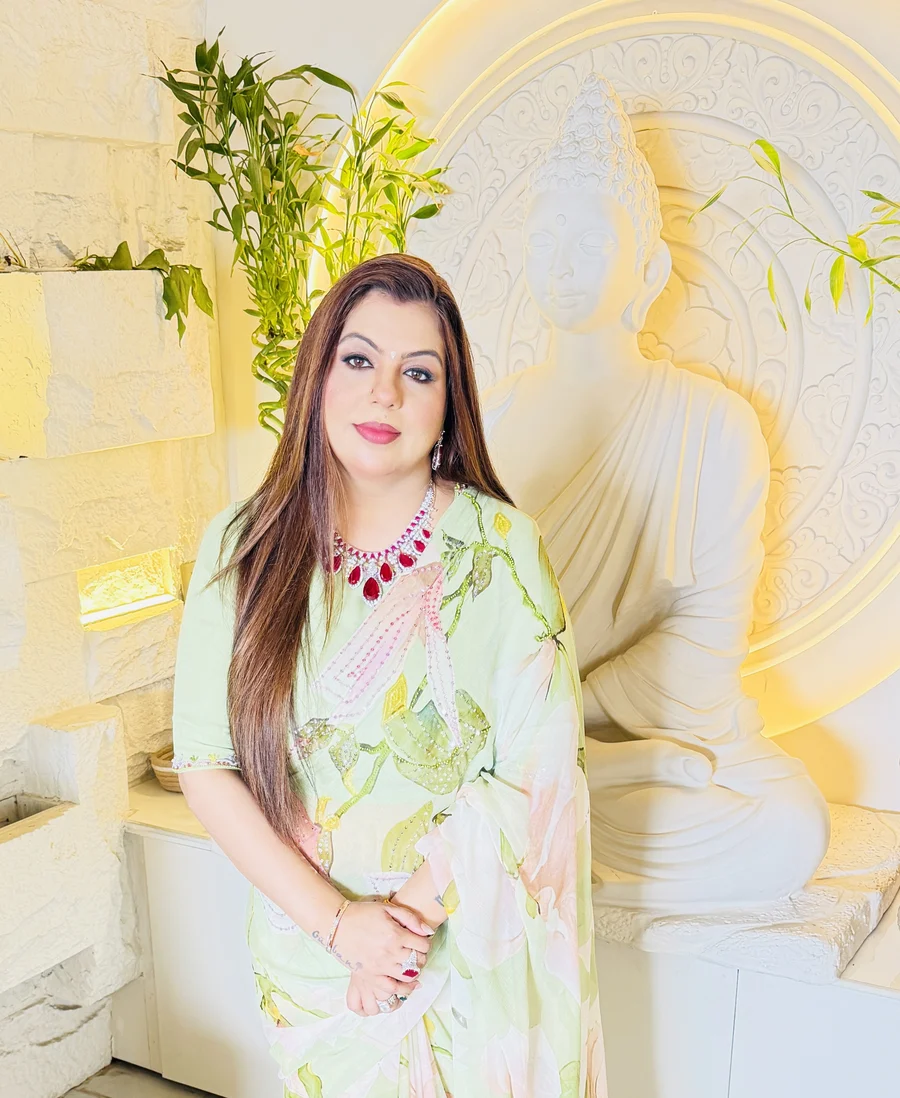
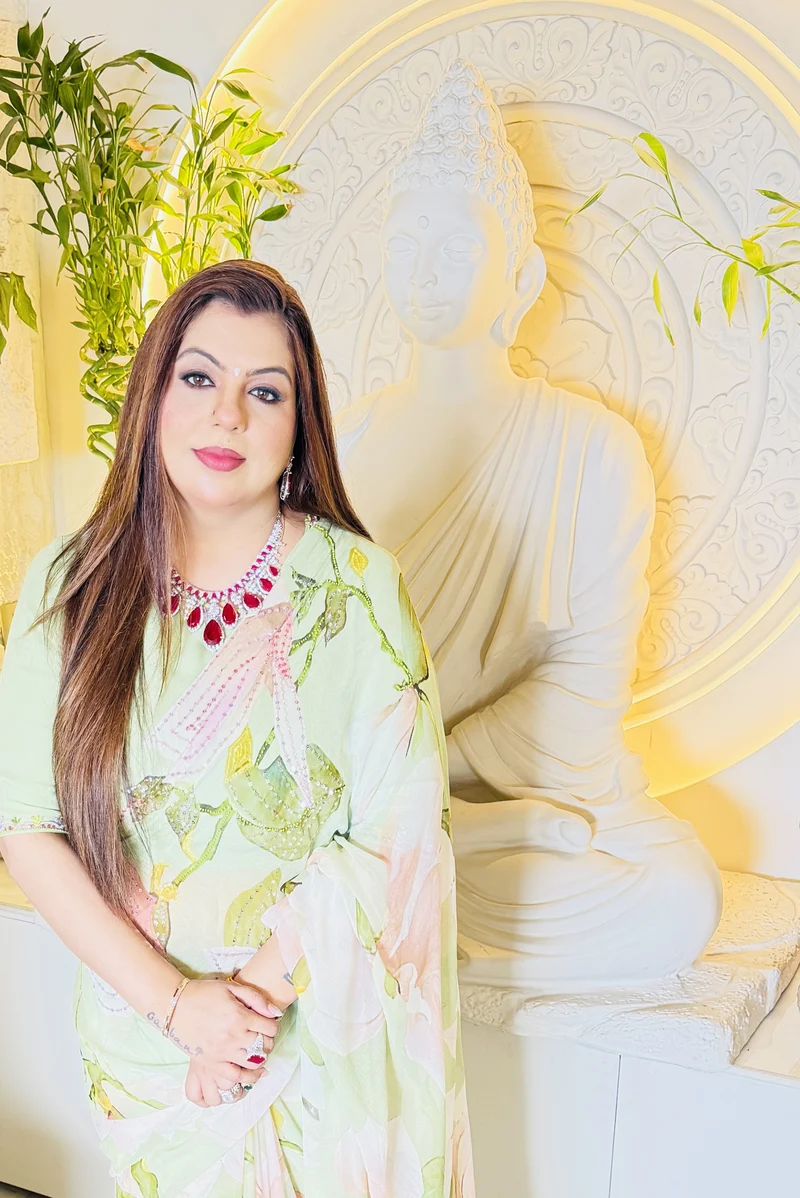
Brainology: calmer meet section with her real photo in a clean frame; cleaner client voices photo

diff --git a/public/landing/_shared/styles.css b/public/landing/_shared/styles.css
@@ -4625,6 +4625,46 @@ body.lp-v5 .a6-photo figcaption { bottom: 12px; }
 }
 @media (max-width: 640px) { body.lp-v5 .a6-photo { height: 260px; border-radius: 20px; } }
 /* =============================================================================================================
+   Brainology polish (Oct 14): a calmer "Meet your guide" (her real photograph in a clean gold-lined frame, the four
+   medallions in a straight column on its edge, no script or loose leaves over the photograph) and a cleaner client
+   voices photograph (no script over the plants, no leaf smudges).
+   ============================================================================================================= */
+body.lp-v5 .m5 { grid-template-columns: minmax(0, 40%) minmax(0, 60%); padding-block: 56px; }
+body.lp-v5 .m5-visual { display: flex; align-items: center; justify-content: flex-end; min-height: 0; padding: 0 92px 0 max(4vw, 32px); }
+body.lp-v5 .m5-photo { position: relative; inset: auto; width: 100%; max-width: 420px; height: 540px; overflow: hidden; border-radius: 28px; box-shadow: 0 0 0 1px rgb(201 162 90 / 0.6), 0 0 0 9px rgb(255 252 246 / 0.8), 0 0 0 10px rgb(201 162 90 / 0.3), 0 40px 70px -40px rgb(80 60 30 / 0.55); }
+body.lp-v5 .m5-photo::after { display: none; }
+body.lp-v5 .m5-photo img { object-position: 40% 10%; }
+body.lp-v5 .m5-script, body.lp-v5 .m5-name, body.lp-v5 .m5-leaf { display: none; }
+body.lp-v5 .m5-meds { right: 30px; top: 50%; bottom: auto; gap: 14px; transform: translateY(-50%); }
+body.lp-v5 .m5-meds li { width: 100px; height: 100px; }
+body.lp-v5 .m5-meds li:nth-child(2), body.lp-v5 .m5-meds li:nth-child(3) { transform: none; }
+body.lp-v5 .m5-copy { padding: 0 max(4vw, 32px) 0 40px; }
+@media (max-width: 1360px) {
+  body.lp-v5 .m5-visual { padding-right: 80px; }
+  body.lp-v5 .m5-photo { height: 500px; }
+  body.lp-v5 .m5-meds { right: 22px; }
+  body.lp-v5 .m5-meds li { width: 90px; height: 90px; }
+}
+@media (max-width: 900px) {
+  body.lp-v5 .m5 { grid-template-columns: minmax(0, 1fr); padding-block: 36px 40px; }
+  body.lp-v5 .m5-visual { display: block; height: auto; max-height: none; margin: 0 0 22px; padding: 0 20px; }
+  body.lp-v5 .m5-photo { max-width: none; height: 380px; margin: 0 auto; border-radius: 24px; }
+  body.lp-v5 .m5-meds { position: static; width: auto; margin: 22px 0 0; transform: none; justify-content: space-between; }
+  body.lp-v5 .m5-copy { padding: 0 20px; }
+}
+@media (max-width: 640px) {
+  body.lp-v5 .m5-photo { height: 340px; }
+  body.lp-v5 .m5-meds li { width: 76px; height: 76px; }
+}
+
+/* Client voices photograph: no script over the plants, no leaf smudges, softer light. */
+body.lp-v5 .cv5-script, body.lp-v5 .cv5-leaf { display: none; }
+body.lp-v5 .cv5-visual > img { object-position: 45% 12%; filter: saturate(0.95) brightness(0.97); }
+body.lp-v5 .m5-photo { -webkit-mask-image: none; mask-image: none; }
+body.lp-v5 .m5-brain { transform: scale(0.8); transform-origin: top right; }
+body.lp-v5 .m5-facts { margin-top: 30px; }
+body.lp-v5 .cv5-visual > img { filter: saturate(0.92) brightness(0.93) contrast(1.04); }
+/* =============================================================================================================
    Brainology WhatsApp actions (Oct 13 k): one refined, modest pill everywhere. Deep green on light sections, soft
    gold on dark ones; label first, a small WhatsApp disc at the end.
    ============================================================================================================= */

diff --git a/landing-pages/review-v5/m6.css b/landing-pages/review-v5/m6.css
@@ -1,0 +1,40 @@
+/* =============================================================================================================
+   Brainology polish (Oct 14): a calmer "Meet your guide" (her real photograph in a clean gold-lined frame, the four
+   medallions in a straight column on its edge, no script or loose leaves over the photograph) and a cleaner client
+   voices photograph (no script over the plants, no leaf smudges).
+   ============================================================================================================= */
+body.lp-v5 .m5 { grid-template-columns: minmax(0, 40%) minmax(0, 60%); padding-block: 56px; }
+body.lp-v5 .m5-visual { display: flex; align-items: center; justify-content: flex-end; min-height: 0; padding: 0 92px 0 max(4vw, 32px); }
+body.lp-v5 .m5-photo { position: relative; inset: auto; width: 100%; max-width: 420px; height: 540px; overflow: hidden; border-radius: 28px; box-shadow: 0 0 0 1px rgb(201 162 90 / 0.6), 0 0 0 9px rgb(255 252 246 / 0.8), 0 0 0 10px rgb(201 162 90 / 0.3), 0 40px 70px -40px rgb(80 60 30 / 0.55); }
+body.lp-v5 .m5-photo::after { display: none; }
+body.lp-v5 .m5-photo img { object-position: 40% 10%; }
+body.lp-v5 .m5-script, body.lp-v5 .m5-name, body.lp-v5 .m5-leaf { display: none; }
+body.lp-v5 .m5-meds { right: 30px; top: 50%; bottom: auto; gap: 14px; transform: translateY(-50%); }
+body.lp-v5 .m5-meds li { width: 100px; height: 100px; }
+body.lp-v5 .m5-meds li:nth-child(2), body.lp-v5 .m5-meds li:nth-child(3) { transform: none; }
+body.lp-v5 .m5-copy { padding: 0 max(4vw, 32px) 0 40px; }
+@media (max-width: 1360px) {
+  body.lp-v5 .m5-visual { padding-right: 80px; }
+  body.lp-v5 .m5-photo { height: 500px; }
+  body.lp-v5 .m5-meds { right: 22px; }
+  body.lp-v5 .m5-meds li { width: 90px; height: 90px; }
+}
+@media (max-width: 900px) {
+  body.lp-v5 .m5 { grid-template-columns: minmax(0, 1fr); padding-block: 36px 40px; }
+  body.lp-v5 .m5-visual { display: block; height: auto; max-height: none; margin: 0 0 22px; padding: 0 20px; }
+  body.lp-v5 .m5-photo { max-width: none; height: 380px; margin: 0 auto; border-radius: 24px; }
+  body.lp-v5 .m5-meds { position: static; width: auto; margin: 22px 0 0; transform: none; justify-content: space-between; }
+  body.lp-v5 .m5-copy { padding: 0 20px; }
+}
+@media (max-width: 640px) {
+  body.lp-v5 .m5-photo { height: 340px; }
+  body.lp-v5 .m5-meds li { width: 76px; height: 76px; }
+}
+
+/* Client voices photograph: no script over the plants, no leaf smudges, softer light. */
+body.lp-v5 .cv5-script, body.lp-v5 .cv5-leaf { display: none; }
+body.lp-v5 .cv5-visual > img { object-position: 45% 12%; filter: saturate(0.95) brightness(0.97); }
+body.lp-v5 .m5-photo { -webkit-mask-image: none; mask-image: none; }
+body.lp-v5 .m5-brain { transform: scale(0.8); transform-origin: top right; }
+body.lp-v5 .m5-facts { margin-top: 30px; }
+body.lp-v5 .cv5-visual > img { filter: saturate(0.92) brightness(0.93) contrast(1.04); }

diff --git a/public/landing/brainology/index.html b/public/landing/brainology/index.html
@@ -52,7 +52,7 @@
   </div>
   </section></div><section class="m5" aria-labelledby="meet-title">
     <div class="m5-visual">
-      <div class="m5-photo"><img src="../_shared/hero/meet-brain-wide.webp" alt="Narayani Garg in a pale green saree beside a white Buddha relief" width="1000" height="1000" loading="lazy"></div>
+      <div class="m5-photo"><img src="../_shared/hero/meet-real.webp" alt="Narayani Garg in a blue silk saree beside a white Buddha relief" width="760" height="964" loading="lazy"></div>
       <p class="m5-script" aria-hidden="true"><span>Understand</span><span>your mind,</span><span>transform</span><span>your life</span></p>
       <ul class="m5-meds" aria-label="What Brainology works with"><li style="--i:0"><span><svg viewBox="0 0 32 32" fill="none" stroke="currentColor" stroke-width="1.3" stroke-linecap="round" stroke-linejoin="round"><path d="M13 6a4 4 0 0 0-4 4 4 4 0 0 0-3 6.5A4.5 4.5 0 0 0 10 24a4 4 0 0 0 6 2V8a3.5 3.5 0 0 0-3-2Z"/><path d="M19 6a4 4 0 0 1 4 4 4 4 0 0 1 3 6.5A4.5 4.5 0 0 1 22 24a4 4 0 0 1-6 2"/><path d="M16 12h-3M16 18h-4M19 15h-3M20 20h-4"/></svg></span><em>Thought<br>patterns</em></li><li style="--i:1"><span><svg viewBox="0 0 32 32" fill="none" stroke="currentColor" stroke-width="1.3" stroke-linecap="round" stroke-linejoin="round"><path d="M10 27v-5a9 9 0 1 1 13-8c0 3-1 4-2 6v7"/><path d="M15.5 17s-4-2.4-4-5a2 2 0 0 1 4-.6 2 2 0 0 1 4 .6c0 2.6-4 5-4 5Z"/></svg></span><em>Emotions &amp;<br>reactions</em></li><li style="--i:2"><span><svg viewBox="0 0 32 32" fill="none" stroke="currentColor" stroke-width="1.3" stroke-linecap="round" stroke-linejoin="round"><path d="M4 8h9a3 3 0 0 1 3 3v15a3 3 0 0 0-3-3H4zM28 8h-9a3 3 0 0 0-3 3v15a3 3 0 0 1 3-3h9z"/><path d="M7 13h5M7 17h5M20 13h5M20 17h5"/></svg></span><em>Beliefs &amp;<br>habits</em></li><li style="--i:3"><span><svg viewBox="0 0 32 32" fill="none" stroke="currentColor" stroke-width="1.3" stroke-linecap="round" stroke-linejoin="round"><path d="M16 24c-3-3-4.5-7-4.5-10.5S13.5 7 16 5c2.5 2 4.5 5 4.5 8.5S19 21 16 24Z"/><path d="M16 24c-4-.5-8-3-9.5-7.5 3-.5 6 .5 8 2.5M16 24c4-.5 8-3 9.5-7.5-3-.5-6 .5-8 2.5"/><path d="M6 26h20"/></svg></span><em>Everyday<br>practice</em></li></ul>
       <div class="m5-name"><strong>Narayani Garg</strong><span>Psychic Spiritual Mentor</span></div>
